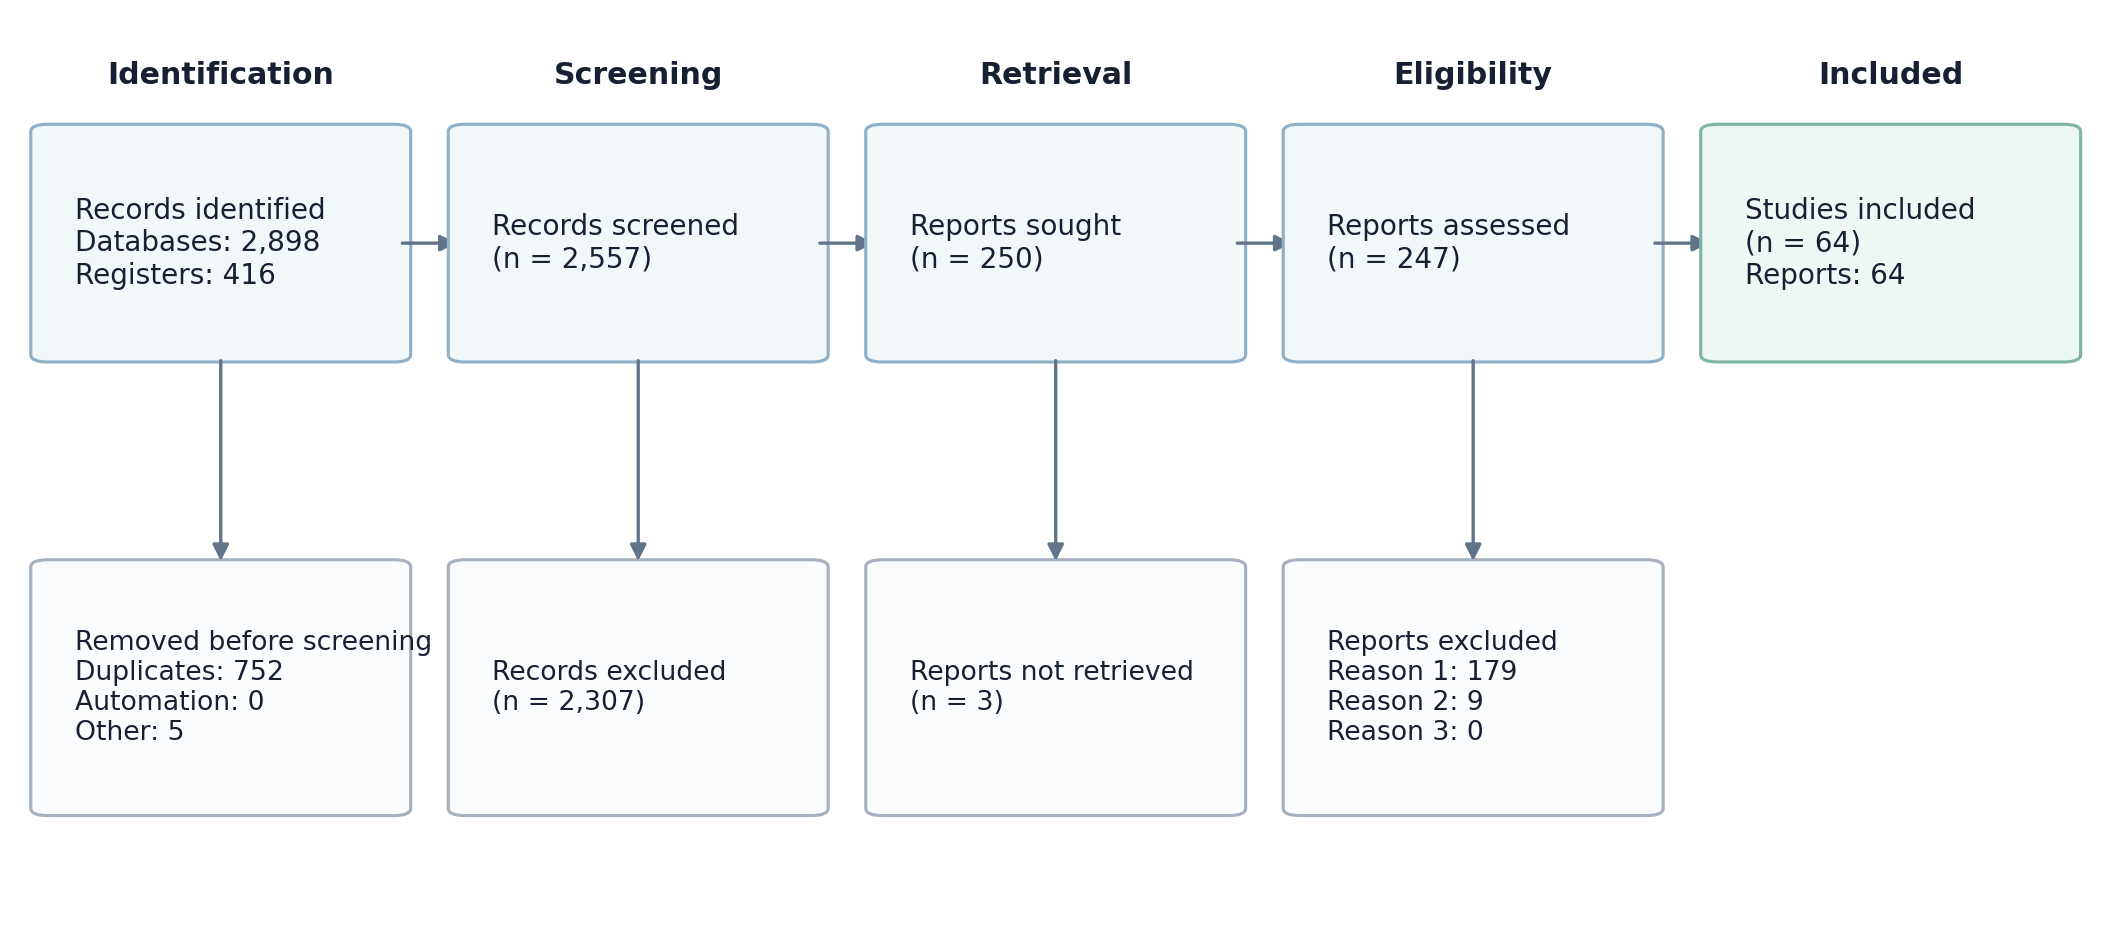
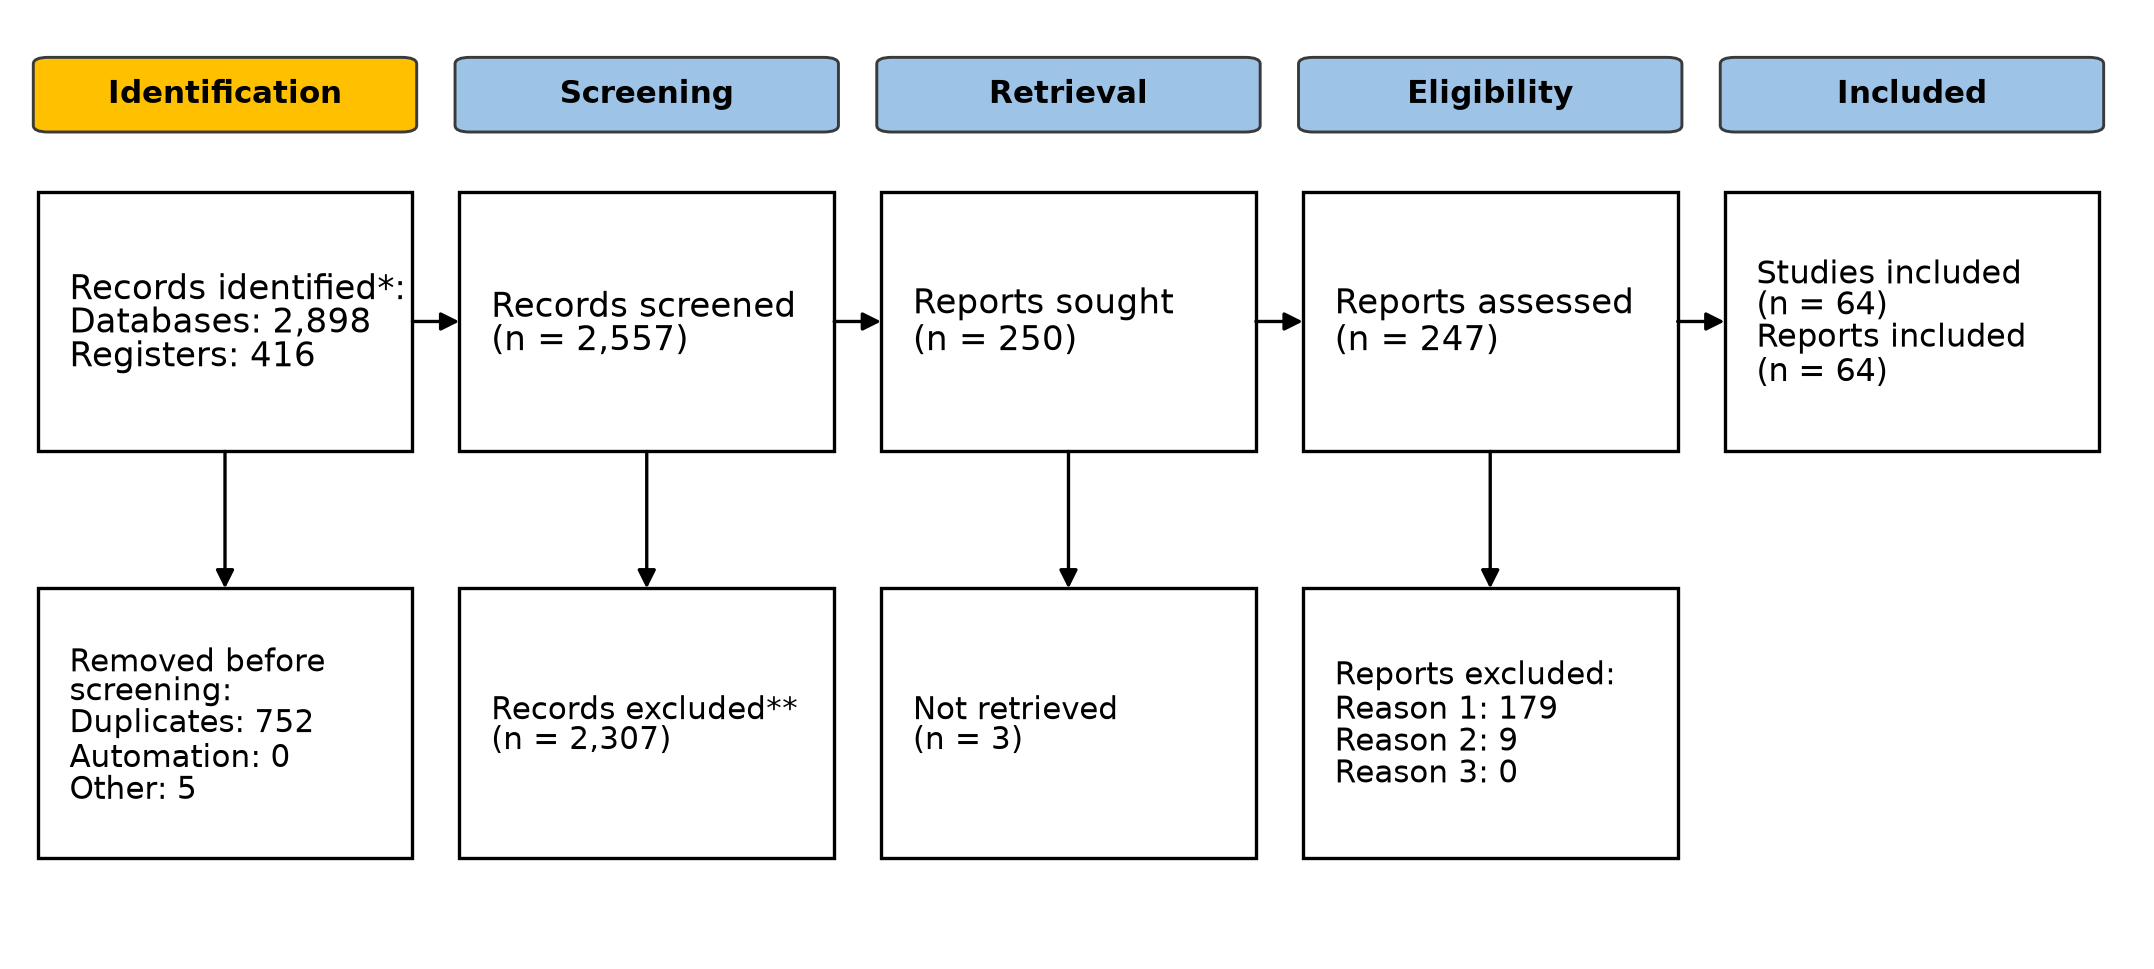
Simplify PRISMA figures for publication layouts

Changed region(s): [[0.0, 0.0311, 0.9853, 0.9033]]

diff --git a/analysis/generate_outputs.py b/analysis/generate_outputs.py
@@ -426,17 +426,27 @@ def figure_prisma(counts: Mapping[str, int], warnings: Sequence[str], output_dir
     del warnings  # Arithmetic warnings remain in the generated QA report, not inside the figure.
 
     left_texts = [
-        f"Records identified\nDatabases: {counts['identified_databases']:,}\nRegisters: {counts['identified_registers']:,}",
+        f"Records identified from*:\nDatabases (n = {counts['identified_databases']:,})\nRegisters (n = {counts['identified_registers']:,})",
         f"Records screened\n(n = {counts['screened']:,})",
-        f"Reports sought\n(n = {counts['reports_sought']:,})",
-        f"Reports assessed\n(n = {counts['reports_assessed']:,})",
-        f"Studies included\n(n = {counts['studies_included']:,})\nReports: {counts['reports_included']:,}",
+        f"Reports sought for\nretrieval\n(n = {counts['reports_sought']:,})",
+        f"Reports assessed for\neligibility\n(n = {counts['reports_assessed']:,})",
+        f"Studies included in review\n(n = {counts['studies_included']:,})\nReports of included\nstudies (n = {counts['reports_included']:,})",
     ]
     right_texts = [
-        f"Removed before screening\nDuplicates: {counts['duplicates_removed']:,}\nAutomation: {counts['automation_removed']:,}\nOther: {counts['other_removed']:,}",
-        f"Records excluded\n(n = {counts['screening_excluded']:,})",
+        (
+            "Records removed before\nscreening:\n"
+            f"Duplicate records removed\n(n = {counts['duplicates_removed']:,})\n"
+            f"Marked ineligible by\nautomation (n = {counts['automation_removed']:,})\n"
+            f"Removed for other reasons\n(n = {counts['other_removed']:,})"
+        ),
+        f"Records excluded**\n(n = {counts['screening_excluded']:,})",
         f"Reports not retrieved\n(n = {counts['reports_not_retrieved']:,})",
-        f"Reports excluded\nReason 1: {counts['excluded_reason_1']:,}\nReason 2: {counts['excluded_reason_2']:,}\nReason 3: {counts['excluded_reason_3']:,}",
+        (
+            "Reports excluded:\n"
+            f"Reason 1 (n = {counts['excluded_reason_1']:,})\n"
+            f"Reason 2 (n = {counts['excluded_reason_2']:,})\n"
+            f"Reason 3 (n = {counts['excluded_reason_3']:,})"
+        ),
     ]
 
     def add_box(
@@ -446,22 +456,29 @@ def figure_prisma(counts: Mapping[str, int], warnings: Sequence[str], output_dir
         width: float,
         height: float,
         label: str,
-        fill: str,
-        edge: str,
         fontsize: float,
+        line_spacing: float = 1.08,
     ) -> None:
         ax.add_patch(
-            FancyBboxPatch(
+            Rectangle(
                 (x, y),
                 width,
                 height,
-                boxstyle="round,pad=0.006,rounding_size=0.008",
-                linewidth=0.75,
-                edgecolor=edge,
-                facecolor=fill,
+                linewidth=0.8,
+                edgecolor="black",
+                facecolor="white",
             )
         )
-        ax.text(x + 0.015, y + height / 2, label, ha="left", va="center", fontsize=fontsize, color=INK)
+        ax.text(
+            x + 0.015,
+            y + height / 2,
+            label,
+            ha="left",
+            va="center",
+            fontsize=fontsize,
+            linespacing=line_spacing,
+            color="black",
+        )
 
     def add_arrow(ax: plt.Axes, x1: float, y1: float, x2: float, y2: float) -> None:
         ax.add_patch(
@@ -469,63 +486,152 @@ def figure_prisma(counts: Mapping[str, int], warnings: Sequence[str], output_dir
                 (x1, y1),
                 (x2, y2),
                 arrowstyle="-|>",
-                mutation_scale=8,
+                mutation_scale=9,
                 linewidth=0.8,
-                color="#60758A",
-                shrinkA=1,
-                shrinkB=1,
+                color="black",
+                shrinkA=0,
+                shrinkB=0,
             )
         )
 
-    fig, ax = plt.subplots(figsize=(3.35, 6.2))
-    ax.set(xlim=(0, 1), ylim=(0, 1))
-    ax.axis("off")
-    left_x, right_x, width, height = 0.10, 0.57, 0.38, 0.105
-    ys = [0.86, 0.68, 0.50, 0.32, 0.11]
-    phase_specs = [
-        ("IDENTIFICATION", 0.86, height, "#E7F0F6", NAVY),
-        ("SCREENING", 0.32, 0.465, "#EEF3F7", "#4F7896"),
-        ("INCLUDED", 0.11, height, "#E7F3EF", TEAL),
-    ]
-    for label, y, phase_height, fill, edge in phase_specs:
+    def add_phase(
+        ax: plt.Axes,
+        x: float,
+        y: float,
+        width: float,
+        height: float,
+        label: str,
+        rotation: float = 90,
+        fill: str = "#9DC3E6",
+        fontsize: float = 6.4,
+    ) -> None:
         ax.add_patch(
             FancyBboxPatch(
-                (0.018, y),
-                0.052,
-                phase_height,
+                (x, y),
+                width,
+                height,
                 boxstyle="round,pad=0.002,rounding_size=0.007",
-                linewidth=0.65,
-                edgecolor=edge,
+                linewidth=0.7,
+                edgecolor="#3A3A3A",
                 facecolor=fill,
             )
         )
-        ax.text(0.044, y + phase_height / 2, label, rotation=90, ha="center", va="center", fontsize=5.8, fontweight="semibold", color=edge)
+        ax.text(
+            x + width / 2,
+            y + height / 2,
+            label,
+            rotation=rotation,
+            ha="center",
+            va="center",
+            fontsize=fontsize,
+            fontweight="bold",
+            color="black",
+        )
+
+    fig, ax = plt.subplots(figsize=(3.35, 5.15))
+    ax.set(xlim=(0, 1), ylim=(0, 1))
+    ax.axis("off")
+    ax.add_patch(
+        FancyBboxPatch(
+            (0.12, 0.936),
+            0.83,
+            0.048,
+            boxstyle="round,pad=0.002,rounding_size=0.009",
+            linewidth=0.75,
+            edgecolor="#C89400",
+            facecolor="#FFC000",
+        )
+    )
+    ax.text(
+        0.535,
+        0.960,
+        "Identification of studies via databases and registers",
+        ha="center",
+        va="center",
+        fontsize=6.6,
+        fontweight="bold",
+        color="black",
+    )
+
+    left_x, right_x, width = 0.12, 0.58, 0.37
+    id_y, id_h = 0.740, 0.160
+    stage_h = 0.082
+    ys = [id_y, 0.620, 0.485, 0.350, 0.165]
+    heights = [id_h, stage_h, stage_h, stage_h, 0.105]
+
+    add_phase(ax, 0.025, id_y, 0.060, id_h, "Identification")
+    add_phase(ax, 0.025, 0.305, 0.060, 0.397, "Screening")
+    add_phase(ax, 0.025, ys[-1], 0.060, heights[-1], "Included")
+
     for index, y in enumerate(ys):
-        add_box(ax, left_x, y, width, height, left_texts[index], "#F2F7FA" if index < 4 else "#EDF7F3", "#8FB0C7" if index < 4 else "#80B5A5", 6.6)
+        left_font = 7.7 if index != 4 else 7.25
+        add_box(ax, left_x, y, width, heights[index], left_texts[index], left_font, 1.04)
         if index < 4:
-            add_box(ax, right_x, y, width, height, right_texts[index], "#FBFCFD", "#A5B1BE", 6.4)
-            add_arrow(ax, left_x + width, y + height / 2, right_x, y + height / 2)
+            if index == 0:
+                right_y, right_h, right_font = id_y, id_h, 6.15
+            elif index == 3:
+                right_y, right_h, right_font = 0.305, 0.127, 7.0
+            else:
+                right_y, right_h, right_font = y, heights[index], 7.55
+            add_box(ax, right_x, right_y, width, right_h, right_texts[index], right_font, 1.02)
+            add_arrow(ax, left_x + width, y + heights[index] / 2, right_x, y + heights[index] / 2)
         if index < len(ys) - 1:
-            add_arrow(ax, left_x + width / 2, y, left_x + width / 2, ys[index + 1] + height)
-    fig.subplots_adjust(left=0.01, right=0.99, bottom=0.01, top=0.99)
+            add_arrow(ax, left_x + width / 2, y, left_x + width / 2, ys[index + 1] + heights[index + 1])
+    fig.subplots_adjust(left=0, right=1, bottom=0, top=1)
     save_figure(fig, output_dir, "fig1_prisma_single_portrait")
 
     fig, ax = plt.subplots(figsize=(7.1, 3.15))
     ax.set(xlim=(0, 1), ylim=(0, 1))
     ax.axis("off")
-    xs = [0.015, 0.215, 0.415, 0.615, 0.815]
-    width, main_y, main_h = 0.17, 0.62, 0.25
+    landscape_left_texts = [
+        f"Records identified*:\nDatabases: {counts['identified_databases']:,}\nRegisters: {counts['identified_registers']:,}",
+        f"Records screened\n(n = {counts['screened']:,})",
+        f"Reports sought\n(n = {counts['reports_sought']:,})",
+        f"Reports assessed\n(n = {counts['reports_assessed']:,})",
+        f"Studies included\n(n = {counts['studies_included']:,})\nReports included\n(n = {counts['reports_included']:,})",
+    ]
+    landscape_right_texts = [
+        (
+            "Removed before\nscreening:\n"
+            f"Duplicates: {counts['duplicates_removed']:,}\n"
+            f"Automation: {counts['automation_removed']:,}\n"
+            f"Other: {counts['other_removed']:,}"
+        ),
+        f"Records excluded**\n(n = {counts['screening_excluded']:,})",
+        f"Not retrieved\n(n = {counts['reports_not_retrieved']:,})",
+        (
+            "Reports excluded:\n"
+            f"Reason 1: {counts['excluded_reason_1']:,}\n"
+            f"Reason 2: {counts['excluded_reason_2']:,}\n"
+            f"Reason 3: {counts['excluded_reason_3']:,}"
+        ),
+    ]
+
+    xs = [0.012, 0.210, 0.408, 0.606, 0.804]
+    width, main_y, main_h = 0.176, 0.535, 0.275
     phases = ["Identification", "Screening", "Retrieval", "Eligibility", "Included"]
     for index, x in enumerate(xs):
-        ax.text(x + width / 2, 0.93, phases[index], ha="center", va="center", fontsize=7.2, fontweight="semibold", color=INK)
-        add_box(ax, x, main_y, width, main_h, left_texts[index], "#F2F7FA" if index < 4 else "#EDF7F3", "#8FB0C7" if index < 4 else "#80B5A5", 6.7)
+        add_phase(
+            ax,
+            x,
+            0.875,
+            width,
+            0.075,
+            phases[index],
+            rotation=0,
+            fill="#FFC000" if index == 0 else "#9DC3E6",
+            fontsize=7.5,
+        )
+        main_font = 8.15 if index != 4 else 7.7
+        add_box(ax, x, main_y, width, main_h, landscape_left_texts[index], main_font, 1.04)
         if index < len(xs) - 1:
             add_arrow(ax, x + width, main_y + main_h / 2, xs[index + 1], main_y + main_h / 2)
-    secondary_y, secondary_h = 0.12, 0.27
+    secondary_y, secondary_h = 0.105, 0.285
     for index, x in enumerate(xs[:4]):
-        add_box(ax, x, secondary_y, width, secondary_h, right_texts[index], "#FBFCFD", "#A5B1BE", 6.4)
+        secondary_font = 7.5
+        add_box(ax, x, secondary_y, width, secondary_h, landscape_right_texts[index], secondary_font, 1.02)
         add_arrow(ax, x + width / 2, main_y, x + width / 2, secondary_y + secondary_h)
-    fig.subplots_adjust(left=0.01, right=0.99, bottom=0.02, top=0.98)
+    fig.subplots_adjust(left=0, right=1, bottom=0, top=1)
     save_figure(fig, output_dir, "fig1_prisma_double_landscape")
 
 

diff --git a/sections/03_results.tex b/sections/03_results.tex
@@ -9,7 +9,7 @@ The evidence-base characteristics are summarized in Table~\ref{tab:characteristi
 \begin{figure}[H]
     \centering
     \includegraphics[width=\columnwidth]{fig1_prisma_single_portrait.pdf}
-    \caption{PRISMA 2020 flow of records and reports. Source counts are retained pending reconciliation of the full-text arithmetic.}
+    \caption{PRISMA 2020 flow of records and reports. Source counts are retained pending reconciliation of the full-text arithmetic. \textsuperscript{*}Records are reported by source where feasible; database and other-source subtotals are also shown. \textsuperscript{**}No automation tools were used to exclude screened records; screening exclusions were made by reviewers.}
     \label{fig:prisma}
 \end{figure}
 